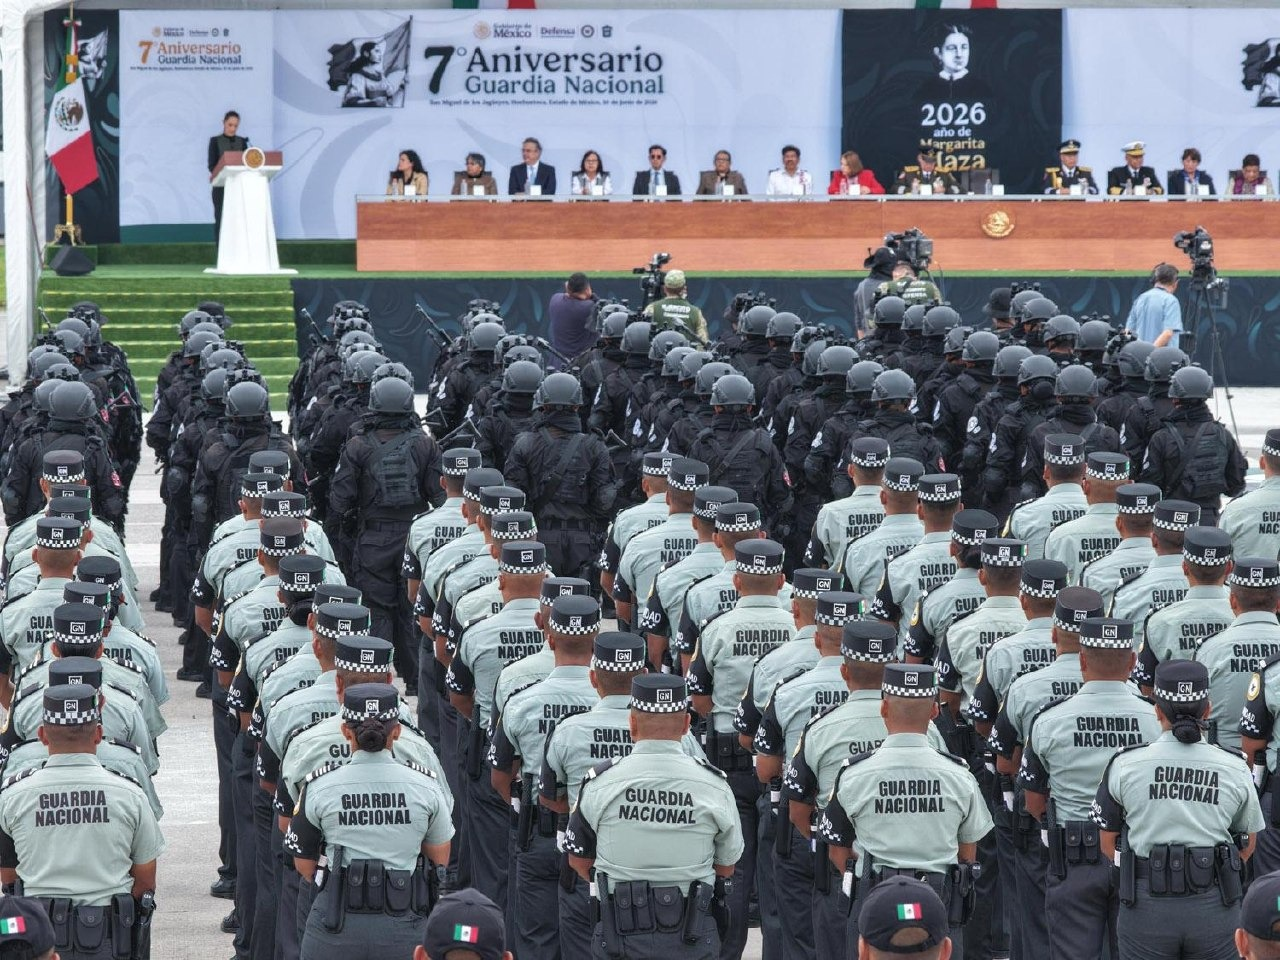
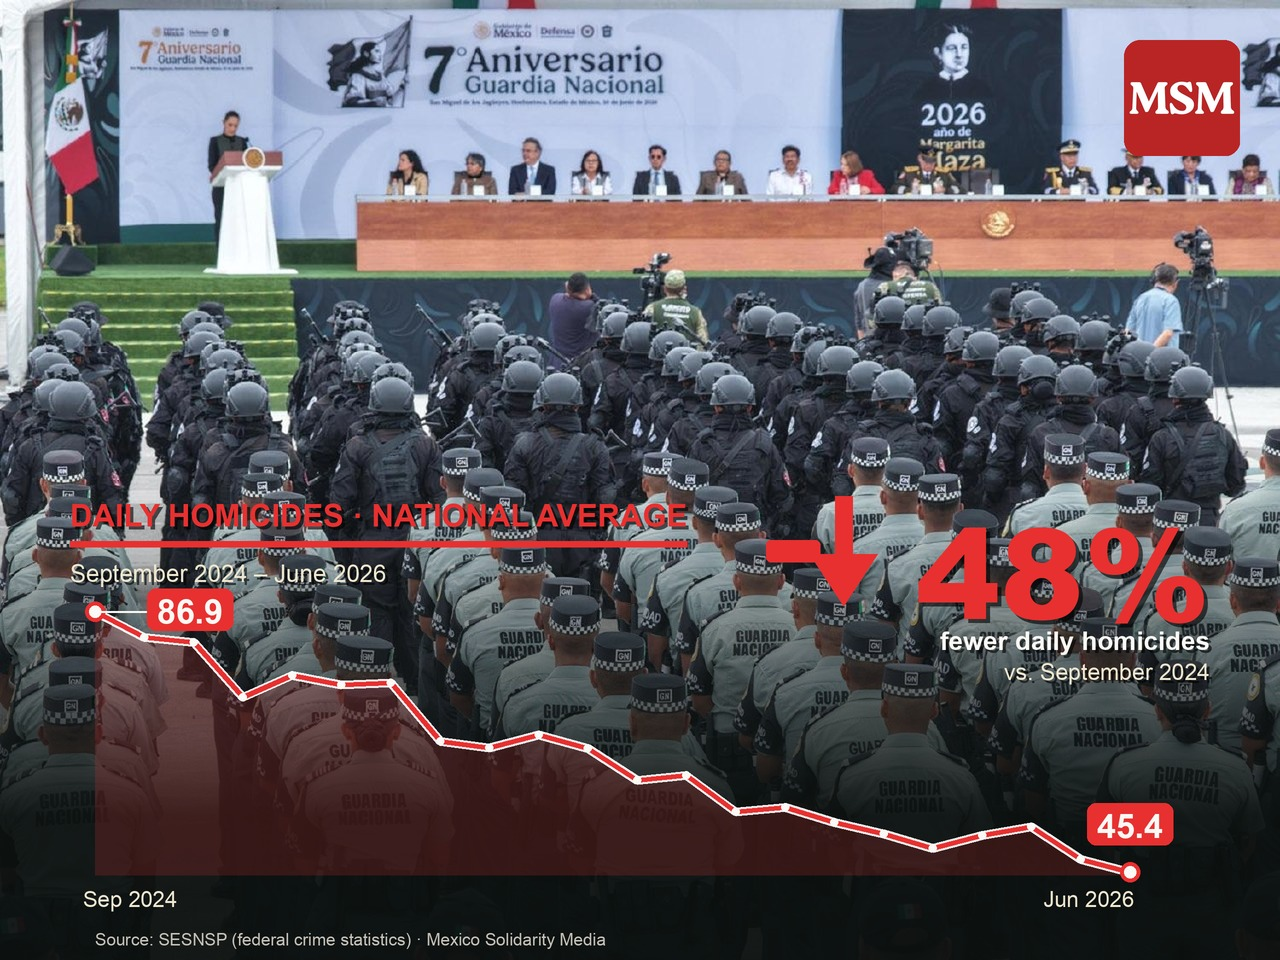
Featured: homicide chart overlay on National Guard photo

diff --git a/translations/2026-07-14-homicides-down-48/article.html b/translations/2026-07-14-homicides-down-48/article.html
@@ -1,5 +1,5 @@
-<!-- wp:image {"id":18010,"sizeSlug":"large"} -->
-<figure class="wp-block-image"><img src="https://mexicosolidarity.com/wp-content/uploads/2026/07/2026-07-14-homicides-down-48-large.jpg" alt="National Guard troops during the 7th anniversary ceremony, with President Sheinbaum at the podium"/><figcaption class="wp-element-caption">Photo: Presidencia</figcaption></figure>
+<!-- wp:image {"id":18012,"sizeSlug":"large"} -->
+<figure class="wp-block-image"><img src="https://mexicosolidarity.com/wp-content/uploads/2026/07/2026-07-14-homicides-down-48-large.jpg" alt="Chart over a National Guard ceremony photo showing daily homicides falling 48% from 86.9 in September 2024 to 45.4 in June 2026"/><figcaption class="wp-element-caption">Photo: Presidencia</figcaption></figure>
 <!-- /wp:image -->
 
 <!-- wp:paragraph -->
